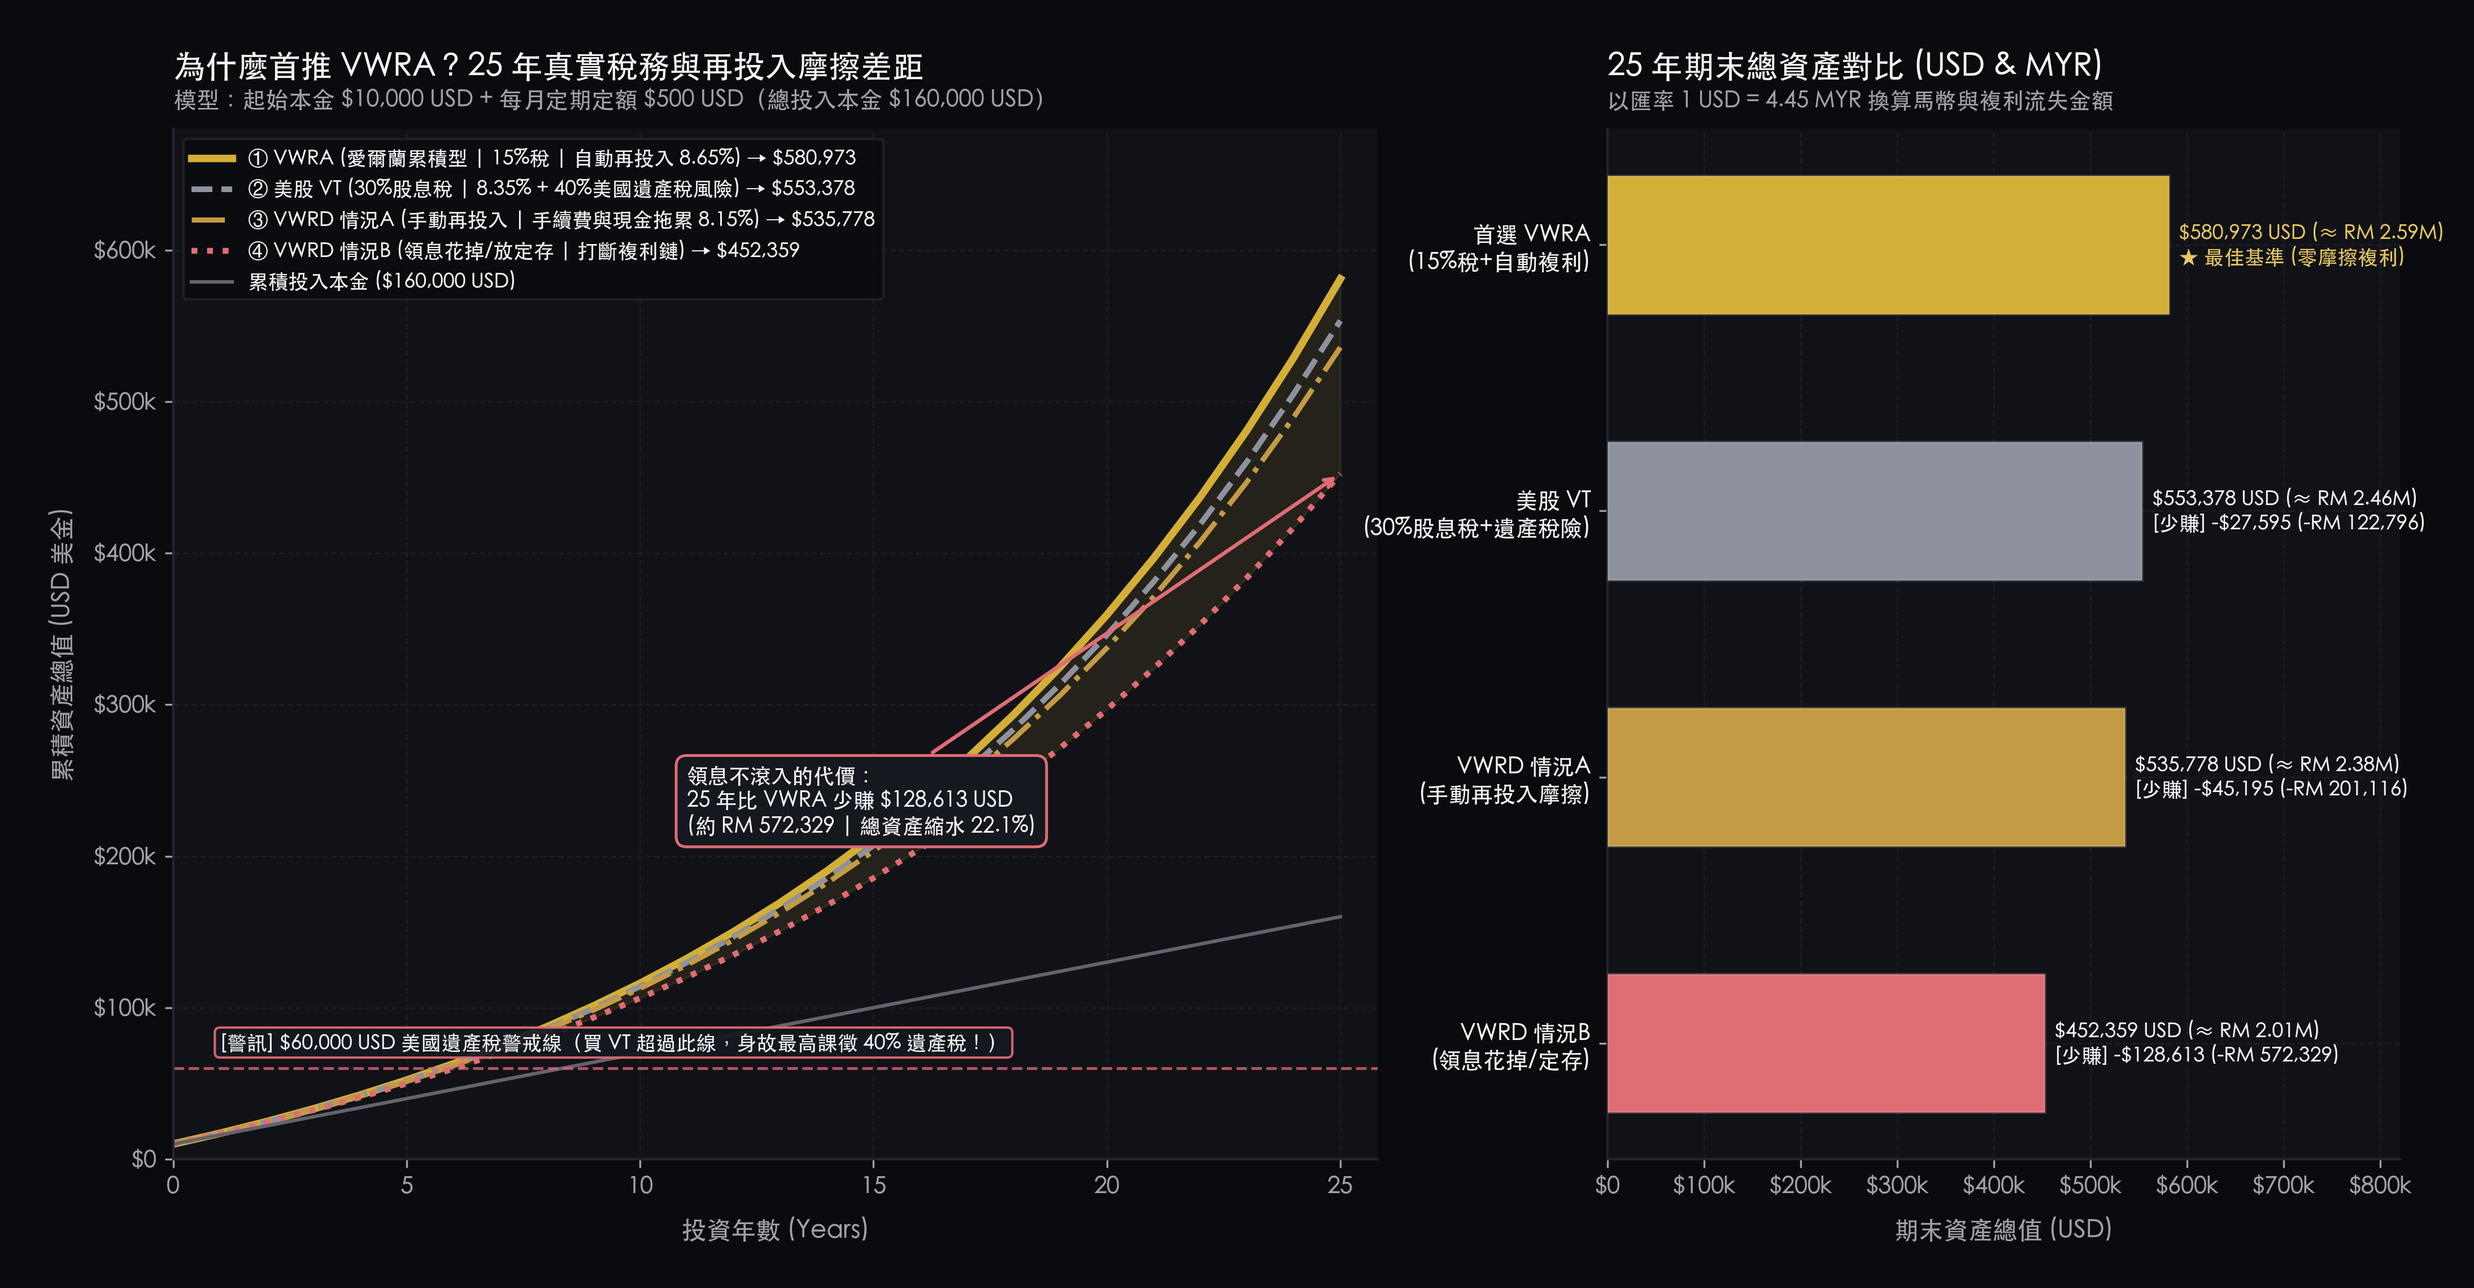
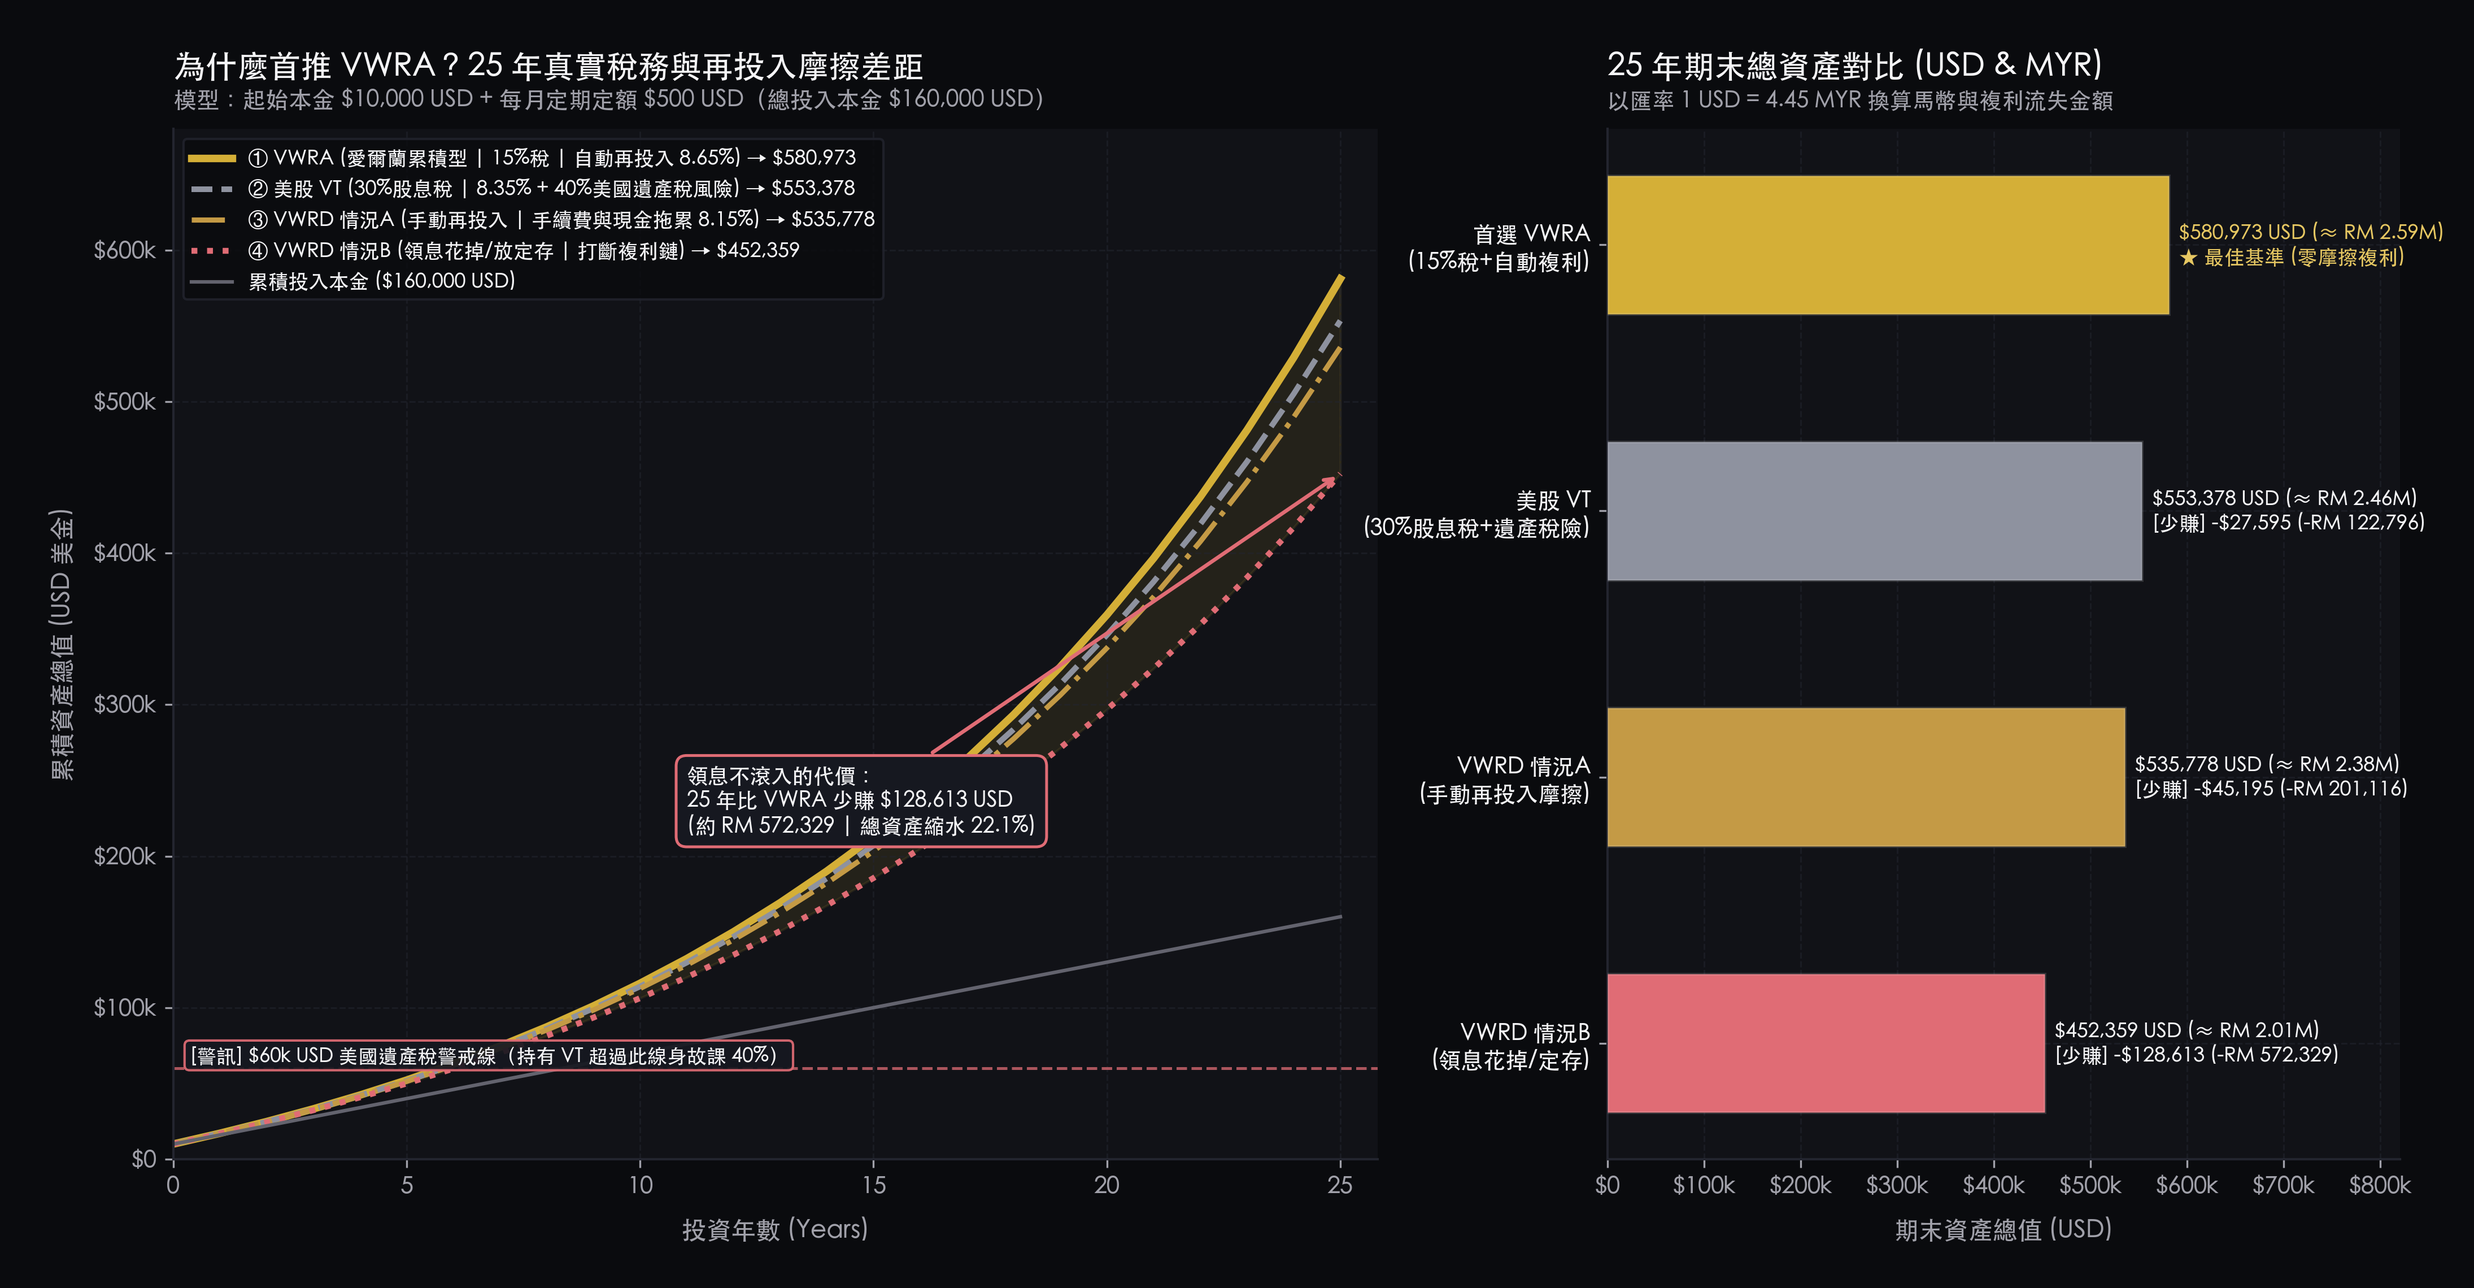
fix(layout): resolve details overflow collision with Ch02 and eliminate text overlaps across all charts

Changed region(s): [[0.0621, 0.7785, 0.4037, 0.8408]]

diff --git a/css/style.css b/css/style.css
@@ -139,6 +139,11 @@ body {
   background-color: var(--gold-primary);
 }
 
+/* Details / Accordion Polyfill for Tailwind Preflight */
+details:not([open]) > :not(summary) {
+  display: none !important;
+}
+
 /* 16:9 Widescreen Section Rhythm */
 .slide-panel {
   scroll-margin-top: 4.5rem; /* Matches slim 56px header + breathing room */

diff --git a/generate_charts.py b/generate_charts.py
@@ -95,18 +95,18 @@ def format_usd(x, pos=None):
 # CHART 0: 00_wealth_ladder_staircase.png (Physical Wealth Ladder Architecture)
 # ==============================================================================
 def generate_chart_00():
-    fig, ax = plt.subplots(figsize=(16, 9), facecolor=BG_DARK)
+    fig, ax = plt.subplots(figsize=(16, 9.4), facecolor=BG_DARK)
     ax.set_facecolor(BG_DARK)
-    ax.set_xlim(-0.5, 6.2)
-    ax.set_ylim(-0.3, 7.3)
+    ax.set_xlim(-0.55, 6.25)
+    ax.set_ylim(-0.85, 8.4)
     ax.axis("off")
 
     # Header
-    ax.text(0.0, 6.9, "CHAPTER 01 · THE 6 WEALTH LEVELS & THE 0.01% RULE", color=EMERALD_LIGHT, fontsize=11, fontfamily="monospace", fontweight="bold")
-    ax.text(0.0, 6.45, "《The Wealth Ladder》財富六階梯實體階梯圖與萬分之一法則架構", color=TEXT_MAIN, fontsize=18, fontweight="bold")
-    ax.text(0.0, 6.10, "以 10 倍美金數量級躍遷定義 6 個自由階梯 · 結合大馬購買力平價 (PPP) 與大馬 FIRE 雙重黃金交叉轉折點", color=TEXT_MUTED, fontsize=11)
+    ax.text(0.0, 7.95, "CHAPTER 01 · THE 6 WEALTH LEVELS & THE 0.01% RULE", color=EMERALD_LIGHT, fontsize=11, fontfamily="monospace", fontweight="bold")
+    ax.text(0.0, 7.45, "《The Wealth Ladder》財富六階梯實體階梯圖與萬分之一法則架構", color=TEXT_MAIN, fontsize=18, fontweight="bold")
+    ax.text(0.0, 7.05, "以 10 倍美金數量級躍遷定義 6 個自由階梯 · 結合大馬購買力平價 (PPP) 與大馬 FIRE 雙重黃金交叉轉折點", color=TEXT_MUTED, fontsize=11)
 
-    # 6 Steps Definition
+    # 6 Steps Definition with properly calibrated heights so all text sits safely inside
     steps = [
         {
             "num": "LEVEL 1",
@@ -115,9 +115,9 @@ def generate_chart_00():
             "usd": "< $10k USD",
             "myr": "< RM 44k",
             "daily": "< RM 4.40 / 日",
-            "lifestyle": "為基礎水電與日常帳單焦慮\n每一筆小開銷都有心理負擔",
-            "engine": "【通關引擎】\n專注本業職涯晉升 + 20%+ 儲蓄\n【致命陷阱】\n本金過小時天天盯盤選股拼翻倍",
-            "height": 1.25,
+            "lifestyle": "為基礎水電帳單焦慮\n開銷有心理負擔",
+            "engine": "【通關】本業成長 + 20% 儲蓄\n【禁忌】本金小時天天看盤賭翻倍",
+            "height": 2.35,
             "highlight": False
         },
         {
@@ -127,9 +127,9 @@ def generate_chart_00():
             "usd": "$10k – $100k",
             "myr": "RM 44k – 440k",
             "daily": "RM 4.40 – 44.00 / 日",
-            "lifestyle": "超市日常買菜免看標價\nKopitiam 麵加料加蛋免糾結",
-            "engine": "【通關引擎】\n自動化定投 VWRA + EPF 穩健底倉\n【致命陷阱】\n沉迷高收益資金盤與借貸炒小盤股",
-            "height": 2.05,
+            "lifestyle": "超市買菜免看標價\nKopitiam 加料加蛋免糾結",
+            "engine": "【通關】定投 VWRA + EPF 底倉\n【禁忌】沉迷高收益盤與借貸炒股",
+            "height": 3.15,
             "highlight": False
         },
         {
@@ -139,9 +139,9 @@ def generate_chart_00():
             "usd": "$100k – $1M",
             "myr": "RM 440k – 4.4M",
             "daily": "RM 44 – 440 / 日",
-            "lifestyle": "任何普通餐廳點餐無壓力\n跨過 RM 1.5M 解鎖大馬完全自由",
-            "engine": "【通關引擎】\n達成雙重黃金交叉 · 核心衛星框架\n【致命陷阱】\n過早買豪車豪宅被巨額房貸鎖死",
-            "height": 2.95,
+            "lifestyle": "普通餐廳點餐無壓力\n跨 RM 1.5M 解鎖大馬完全退休",
+            "engine": "【通關】雙黃金交叉 · 核心衛星\n【致命陷阱】過早買豪車豪宅鎖死房貸",
+            "height": 4.05,
             "highlight": True,
             "badge": "★ 大馬 FIRE 退休與雙重黃金交叉里程碑 (Structural Crossover)"
         },
@@ -152,9 +152,9 @@ def generate_chart_00():
             "usd": "$1M – $10M",
             "myr": "RM 4.4M – 44M",
             "daily": "RM 440 – 4,400 / 日",
-            "lifestyle": "全家商務艙出國度假旅行\n子女全球頂尖大學留學免貸款",
-            "engine": "【通關引擎】\n啟動 3 年現金金庫防禦 (Buffer)\n【致命陷阱】\n盲目開槓桿、熊市恐慌殺跌被斷頭",
-            "height": 3.85,
+            "lifestyle": "商務艙出國度假旅行\n子女留學免貸款",
+            "engine": "【通關】啟動 3 年現金金庫 (Buffer)\n【致命陷阱】盲目開槓桿、恐慌砍在阿呆谷",
+            "height": 4.90,
             "highlight": False
         },
         {
@@ -164,9 +164,9 @@ def generate_chart_00():
             "usd": "$10M – $100M",
             "myr": "RM 44M – 440M",
             "daily": "RM 4.4k – 44k / 日",
-            "lifestyle": "全球核心城市置產（倫敦/新/馬）\n跨國流動性與主權風險對沖",
-            "engine": "【通關引擎】\n離岸信託、私行家辦與稅務籌劃\n【致命陷阱】\n盲目投資親友未上市實體專案爆雷",
-            "height": 4.75,
+            "lifestyle": "全球核心城市置產\n跨國流動與主權避險",
+            "engine": "【通關】離岸信託、私行家辦架構\n【致命陷阱】盲目投資親友未上市專案爆雷",
+            "height": 5.75,
             "highlight": False
         },
         {
@@ -176,9 +176,9 @@ def generate_chart_00():
             "usd": "> $100M+ USD",
             "myr": "> RM 440M+",
             "daily": "> RM 44k+ / 日",
-            "lifestyle": "物質消費完全邊際效益遞減\n金錢轉化為重塑社會的力量",
-            "engine": "【通關引擎】\n世代家族信託與永續慈善基金會\n【致命陷阱】\n缺乏家族憲章導致遺產爭端富不過三代",
-            "height": 5.65,
+            "lifestyle": "個人物質消費邊際效應歸零\n金錢轉化為重塑社會的力量",
+            "engine": "【通關】家族信託與永續慈善基金\n【致命陷阱】缺乏家族憲章導致富不過三代",
+            "height": 6.55,
             "highlight": False
         }
     ]
@@ -192,7 +192,7 @@ def generate_chart_00():
 
         fc = "#1a1811" if is_hl else BG_CARD
         ec = EMERALD if is_hl else "#282a36"
-        lw = 2.0 if is_hl else 1.0
+        lw = 2.2 if is_hl else 1.0
 
         rect = patches.FancyBboxPatch(
             (x - bar_width/2, 0),
@@ -208,9 +208,9 @@ def generate_chart_00():
 
         if is_hl:
             top_bar = patches.Rectangle(
-                (x - bar_width/2, y_top - 0.08),
+                (x - bar_width/2, y_top - 0.09),
                 bar_width,
-                0.08,
+                0.09,
                 facecolor=EMERALD_LIGHT,
                 edgecolor="none",
                 zorder=3
@@ -223,45 +223,45 @@ def generate_chart_00():
             x, y_top - 0.28,
             f"  {s['num']}  ",
             color=badge_fg,
-            fontsize=10.5,
+            fontsize=10.0,
             fontweight="bold",
             fontfamily="monospace",
             ha="center",
             va="center",
-            bbox=dict(boxstyle="round,pad=0.25", facecolor=badge_bg, edgecolor="none"),
+            bbox=dict(boxstyle="round,pad=0.22", facecolor=badge_bg, edgecolor="none"),
             zorder=4
         )
 
         title_color = EMERALD_LIGHT if is_hl else TEXT_MAIN
-        ax.text(x, y_top - 0.65, s["title_zh"], color=title_color, fontsize=11.5, fontweight="bold", ha="center", va="center", zorder=4)
-        ax.text(x, y_top - 0.90, s["title_en"], color=EMERALD if is_hl else TEXT_MUTED, fontsize=8.5, ha="center", va="center", zorder=4)
+        ax.text(x, y_top - 0.62, s["title_zh"], color=title_color, fontsize=11.2, fontweight="bold", ha="center", va="center", zorder=4)
+        ax.text(x, y_top - 0.86, s["title_en"], color=EMERALD if is_hl else TEXT_MUTED, fontsize=8.5, ha="center", va="center", zorder=4)
 
-        ax.text(x, y_top - 1.25, s["usd"], color=TEXT_MAIN, fontsize=10, fontweight="bold", fontfamily="monospace", ha="center", va="center", zorder=4)
-        ax.text(x, y_top - 1.48, f"({s['myr']})", color=EMERALD_LIGHT if is_hl else CYAN, fontsize=9, fontfamily="monospace", ha="center", va="center", zorder=4)
+        ax.text(x, y_top - 1.18, s["usd"], color=TEXT_MAIN, fontsize=9.8, fontweight="bold", fontfamily="monospace", ha="center", va="center", zorder=4)
+        ax.text(x, y_top - 1.40, f"({s['myr']})", color=EMERALD_LIGHT if is_hl else CYAN, fontsize=8.8, fontfamily="monospace", ha="center", va="center", zorder=4)
 
         ax.text(
-            x, y_top - 1.82,
+            x, y_top - 1.72,
             f"0.01% 日額:\n{s['daily']}",
             color=EMERALD_LIGHT if is_hl else TEXT_MUTED,
-            fontsize=8.5,
+            fontsize=8.3,
             ha="center",
             va="center",
             zorder=4
         )
 
-        if y_top >= 2.8:
-            ax.text(x, y_top - 2.25, s["lifestyle"], color="#c5c5d0", fontsize=7.8, ha="center", va="top", zorder=4, linespacing=1.2)
-        if y_top >= 3.6:
-            ax.text(x, 0.35, s["engine"], color=TEXT_MUTED, fontsize=7.2, ha="center", va="bottom", zorder=4, linespacing=1.2)
+        if y_top >= 3.0:
+            ax.text(x, y_top - 2.22, s["lifestyle"], color="#c5c5d0", fontsize=7.6, ha="center", va="top", zorder=4, linespacing=1.2)
+        if y_top >= 3.8:
+            ax.text(x, 0.25, s["engine"], color=TEXT_MUTED, fontsize=7.0, ha="center", va="bottom", zorder=4, linespacing=1.2)
 
         if is_hl and "badge" in s:
             ax.annotate(
                 s["badge"],
                 xy=(x, y_top),
-                xytext=(x, y_top + 0.65),
+                xytext=(x, y_top + 0.62),
                 arrowprops=dict(arrowstyle="->", color=EMERALD_LIGHT, lw=1.5),
                 color="#0a0b0e",
-                fontsize=9.5,
+                fontsize=9.2,
                 fontweight="bold",
                 ha="center",
                 va="bottom",
@@ -277,16 +277,16 @@ def generate_chart_00():
         ax.plot([x_curr + bar_width/2, x_next - bar_width/2], [steps[i]["height"], steps[i]["height"]], color=EMERALD, linestyle=":", lw=1.2, alpha=0.65, zorder=1)
         ax.plot([x_next - bar_width/2, x_next - bar_width/2], [steps[i]["height"], y_next], color=EMERALD, linestyle=":", lw=1.2, alpha=0.65, zorder=1)
 
-    # Bottom annotation strip
+    # Bottom annotation strip safely positioned well below all cards
     ax.text(
-        0.0, -0.05,
+        0.0, -0.42,
         "◆ 萬分之一法則 (The 0.01% Rule) ＝ 淨資產 ÷ 10,000 ＝ 每日無腦自由消費上限 (等於 3.65% 安全提領率 SWR 微積分日額版)。\n"
         "◆ 降一階守富原則 (Spend at Level N-1)：日常微消費（如吃飯、喝茶、買菜）按當前階梯自由花費；大額資本開銷（如買車、買房）嚴格鎖在上一階以內，永不摔回上一階！",
         color=TEXT_MUTED,
-        fontsize=9.5,
+        fontsize=9.2,
         ha="left",
         va="top",
-        linespacing=1.4
+        linespacing=1.35
     )
 
     out_path = os.path.join(OUTPUT_DIR, "00_wealth_ladder_staircase.png")
@@ -386,7 +386,7 @@ def generate_chart_01():
             va="center",
         )
 
-    # Callout box highlighting the cost of home bias
+    # Callout box highlighting the cost of home bias (positioned in empty space above curves)
     gap_rm = c_world[-1] - c_klci_tr[-1]
     ax1.annotate(
         f"★ 只買馬股與定存，錯失全球 AI 與科技紅利的代價！\n"
@@ -394,11 +394,11 @@ def generate_chart_01():
         f"• 全球股市受惠美股科技巨頭成長 + 美金升值雙重引擎\n"
         f"• 本土偏誤讓資金困在低成長馬股與單一弱勢馬幣",
         xy=(2021, c_world[11]),
-        xytext=(2015.0, 295_000),
-        arrowprops=dict(arrowstyle="->", color=EMERALD_LIGHT, lw=1.8, connectionstyle="arc3,rad=-0.15"),
-        bbox=dict(boxstyle="round,pad=0.6", facecolor="#161820", edgecolor=EMERALD, lw=1.2, alpha=0.96),
+        xytext=(2011.8, 335_000),
+        arrowprops=dict(arrowstyle="->", color=EMERALD_LIGHT, lw=1.8, connectionstyle="arc3,rad=-0.12"),
+        bbox=dict(boxstyle="round,pad=0.55", facecolor="#161820", edgecolor=EMERALD, lw=1.2, alpha=0.96),
         color=TEXT_MAIN,
-        fontsize=9.5,
+        fontsize=9.2,
         fontweight="bold",
         zorder=6,
     )
@@ -524,9 +524,9 @@ def generate_chart_02():
     # US Estate Tax threshold line ($60,000 USD)
     ax1.axhline(60_000, color=ROSE, linestyle="--", linewidth=1.2, alpha=0.75)
     ax1.text(
-        1.0, 72_000,
-        "[警訊] $60,000 USD 美國遺產稅警戒線（買 VT 超過此線，身故最高課徵 40% 遺產稅！）",
-        color=TEXT_MAIN, fontsize=8.6, fontweight="bold",
+        0.35, 63_500,
+        "[警訊] $60k USD 美國遺產稅警戒線（持有 VT 超過此線身故課 40%）",
+        color=TEXT_MAIN, fontsize=8.4, fontweight="bold",
         bbox=dict(boxstyle="round,pad=0.25", facecolor="#161820", edgecolor=ROSE, alpha=0.92)
     )
 
@@ -926,9 +926,9 @@ def generate_chart_05():
     # Stage 2 Threshold Line (RM 100,000)
     ax1.axhline(100_000, color=AMBER, linestyle="--", linewidth=1.4, alpha=0.85)
     ax1.text(
-        0.15, 103_500,
+        2.65, 103_500,
         "★ Stage 2 晉級門檻：RM 100,000（第 4.2 年成功跨越！）",
-        color=AMBER, fontsize=9.2, fontweight="bold"
+        color=AMBER, fontsize=9.0, fontweight="bold"
     )
 
     ax1.annotate(
@@ -936,10 +936,10 @@ def generate_chart_05():
         f"專注本業組：RM {curve_work_save[-1]:,.0f}\n"
         f"20% 股神組：僅 RM {curve_speculate[-1]:,.0f}",
         xy=(5.0, curve_work_save[-1]),
-        xytext=(2.0, 74_000),
+        xytext=(2.2, 58_000),
         arrowprops=dict(arrowstyle="->", color=EMERALD_LIGHT, lw=1.8),
-        bbox=dict(boxstyle="round,pad=0.5", facecolor="#161820", edgecolor=EMERALD, lw=1.2),
-        color=TEXT_MAIN, fontsize=9.5, fontweight="bold"
+        bbox=dict(boxstyle="round,pad=0.45", facecolor="#161820", edgecolor=EMERALD, lw=1.2),
+        color=TEXT_MAIN, fontsize=9.2, fontweight="bold"
     )
 
     ax1.set_xlim(0, 5.2)
